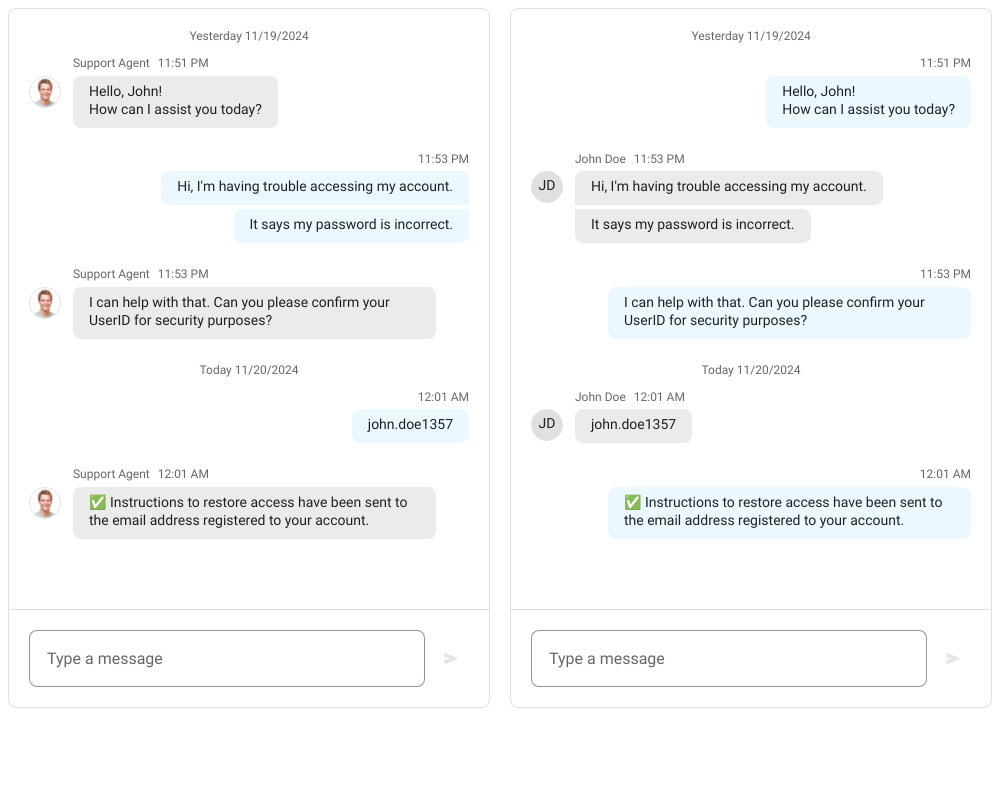
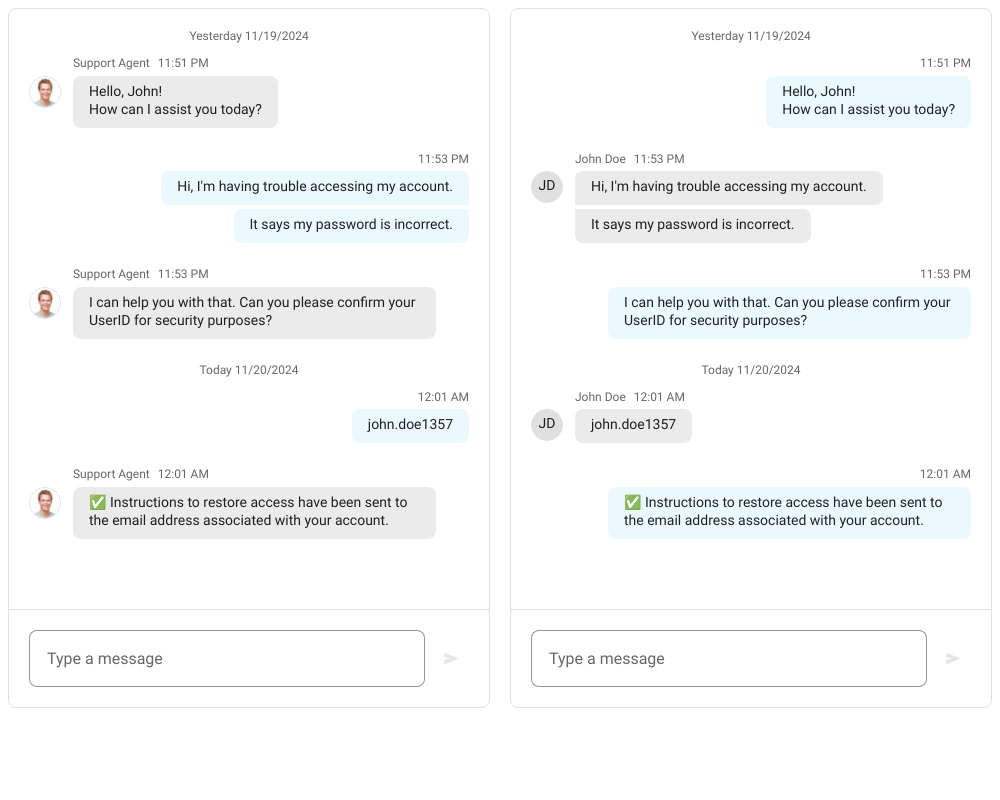
Chat Overview demo: finishing touches (#28444)

diff --git a/apps/demos/Demos/Chat/Overview/Vue/App.vue b/apps/demos/Demos/Chat/Overview/Vue/App.vue
@@ -24,7 +24,7 @@
     }
 
     .dx-chat {
-        height: 810px;
+        height: 710px;
     }
 
     .dx-avatar {
@@ -35,67 +35,17 @@
 <script setup lang="ts">
     import { ref } from 'vue';
     import DxChat from 'devextreme-vue/chat';
-
-    const date = new Date();
-    date.setHours(0, 0, 0, 0);
-
-    function getTimestamp(date, offsetMinutes = 0) {
-        return date.getTime() + offsetMinutes * 60000;
-    }
-
-    const currentUser = ref({
-        id: "c94c0e76-fb49-4b9b-8f07-9f93ed93b4f3",
-        name: "John Doe",
-    });
-
-    const supportAgent = ref({
-        id: "d16d1a4c-5c67-4e20-b7v0e-2991c22747c3",
-        name: "Support Agent",
-        avatarUrl: "../../../../images/petersmith.png",
-    });
+    import { messages, supportAgent, currentUser } from './data.ts';
 
     const userChatTypingUsers = ref([]);
     const supportChatTypingUsers = ref([]);
-
-    const messages = ref([
-        {
-            timestamp: getTimestamp(date, -9),
-            author: supportAgent,
-            text: "Hello, John!\nHow can I assist you today?"
-        },
-        {
-            timestamp: getTimestamp(date, -7),
-            author: currentUser,
-            text: "Hi, I'm having trouble accessing my account."
-        },
-        {
-            timestamp: getTimestamp(date, -7),
-            author: currentUser,
-            text: "It says my password is incorrect."
-        },
-        {
-            timestamp: getTimestamp(date, -7),
-            author: supportAgent,
-            text: "I can help with that. Can you please confirm your UserID for security purposes?"
-        },
-        {
-            timestamp: getTimestamp(date, 1),
-            author: currentUser,
-            text: "john.doe1357"
-        },
-        {
-            timestamp: getTimestamp(date, 1),
-            author: supportAgent,
-            text: "✅ Instructions to restore access have been sent to the email address registered to your account."
-        },
-    ]);
 
     function onMessageEntered(event) {
         messages.value = [...messages.value, event.message];
     }
 
     function userChatTypingStart() {
-        supportChatTypingUsers.value = [currentUser];
+        supportChatTypingUsers.value = [currentUser.value];
     }
     
     function userChatTypingEnd() {
@@ -103,7 +53,7 @@
     }
     
     function supportChatTypingStart() {
-        userChatTypingUsers.value = [supportAgent];
+        userChatTypingUsers.value = [supportAgent.value];
     }
     
     function supportChatTypingEnd() {

diff --git a/apps/demos/Demos/Chat/Overview/jQuery/index.js b/apps/demos/Demos/Chat/Overview/jQuery/index.js
@@ -1,55 +1,4 @@
 $(() => {
-  const getTimestamp = function (date, offsetMinutes = 0) {
-    return date.getTime() + offsetMinutes * 60000;
-  }
-
-  const date = new Date();
-  date.setHours(0, 0, 0, 0);
-
-  const currentUser = {
-    id: "c94c0e76-fb49-4b9b-8f07-9f93ed93b4f3",
-    name: "John Doe",
-  };
-
-  const supportAgent = {
-    id: "d16d1a4c-5c67-4e20-b70e-2991c22747c3",
-    name: "Support Agent",
-    avatarUrl: "../../../../images/petersmith.png",
-  };
-
-  let initialMessages = [
-    {
-      timestamp: getTimestamp(date, -9),
-      author: supportAgent,
-      text: "Hello, John!\nHow can I assist you today?"
-    },
-    {
-      timestamp: getTimestamp(date, -7),
-      author: currentUser,
-      text: "Hi, I'm having trouble accessing my account."
-    },
-    {
-      timestamp: getTimestamp(date, -7),
-      author: currentUser,
-      text: "It says my password is incorrect."
-    },
-    {
-      timestamp: getTimestamp(date, -7),
-      author: supportAgent,
-      text: "I can help with that. Can you please confirm your UserID for security purposes?"
-    },
-    {
-      timestamp: getTimestamp(date, 1),
-      author: currentUser,
-      text: "john.doe1357"
-    },
-    {
-      timestamp: getTimestamp(date, 1),
-      author: supportAgent,
-      text: "✅ Instructions to restore access have been sent to the email address registered to your account."
-    },
-  ];
-
   function onMessageEntered({ message }) {
     userChat.renderMessage(message);
     supportChat.renderMessage(message);

diff --git a/apps/demos/Demos/Chat/Overview/Vue/data.ts b/apps/demos/Demos/Chat/Overview/Vue/data.ts
@@ -1,0 +1,50 @@
+const date = new Date();
+date.setHours(0, 0, 0, 0);
+
+function getTimestamp(date, offsetMinutes = 0) {
+    return date.getTime() + offsetMinutes * 60000;
+}
+
+export const currentUser = {
+    id: "c94c0e76-fb49-4b9b-8f07-9f93ed93b4f3",
+    name: "John Doe",
+};
+
+export const supportAgent = {
+    id: "d16d1a4c-5c67-4e20-b7v0e-2991c22747c3",
+    name: "Support Agent",
+    avatarUrl: "../../../../images/petersmith.png",
+};
+
+export const messages = [
+    {
+        timestamp: getTimestamp(date, -9),
+        author: supportAgent,
+        text: "Hello, John!\nHow can I assist you today?"
+    },
+    {
+        timestamp: getTimestamp(date, -7),
+        author: currentUser,
+        text: "Hi, I'm having trouble accessing my account."
+    },
+    {
+        timestamp: getTimestamp(date, -7),
+        author: currentUser,
+        text: "It says my password is incorrect."
+    },
+    {
+        timestamp: getTimestamp(date, -7),
+        author: supportAgent,
+        text: "I can help you with that. Can you please confirm your UserID for security purposes?"
+    },
+    {
+        timestamp: getTimestamp(date, 1),
+        author: currentUser,
+        text: "john.doe1357"
+    },
+    {
+        timestamp: getTimestamp(date, 1),
+        author: supportAgent,
+        text: "✅ Instructions to restore access have been sent to the email address associated with your account."
+    },
+];

diff --git a/apps/demos/Demos/Chat/Overview/jQuery/data.js b/apps/demos/Demos/Chat/Overview/jQuery/data.js
@@ -1,0 +1,50 @@
+const getTimestamp = function (date, offsetMinutes = 0) {
+  return date.getTime() + offsetMinutes * 60000;
+}
+
+const date = new Date();
+date.setHours(0, 0, 0, 0);
+
+const currentUser = {
+  id: "c94c0e76-fb49-4b9b-8f07-9f93ed93b4f3",
+  name: "John Doe",
+};
+
+const supportAgent = {
+  id: "d16d1a4c-5c67-4e20-b70e-2991c22747c3",
+  name: "Support Agent",
+  avatarUrl: "../../../../images/petersmith.png",
+};
+
+let initialMessages = [
+  {
+    timestamp: getTimestamp(date, -9),
+    author: supportAgent,
+    text: "Hello, John!\nHow can I assist you today?"
+  },
+  {
+    timestamp: getTimestamp(date, -7),
+    author: currentUser,
+    text: "Hi, I'm having trouble accessing my account."
+  },
+  {
+    timestamp: getTimestamp(date, -7),
+    author: currentUser,
+    text: "It says my password is incorrect."
+  },
+  {
+    timestamp: getTimestamp(date, -7),
+    author: supportAgent,
+    text: "I can help you with that. Can you please confirm your UserID for security purposes?"
+  },
+  {
+    timestamp: getTimestamp(date, 1),
+    author: currentUser,
+    text: "john.doe1357"
+  },
+  {
+    timestamp: getTimestamp(date, 1),
+    author: supportAgent,
+    text: "✅ Instructions to restore access have been sent to the email address associated with your account."
+  },
+];

diff --git a/apps/demos/Demos/Chat/Overview/Angular/app/app.service.ts b/apps/demos/Demos/Chat/Overview/Angular/app/app.service.ts
@@ -50,7 +50,7 @@ export class AppService {
       {
         timestamp: this.getTimestamp(this.date, -7),
         author: this.supportAgent,
-        text: 'I can help with that. Can you please confirm your UserID for security purposes?'
+        text: 'I can help you with that. Can you please confirm your UserID for security purposes?'
       },
       {
         timestamp: this.getTimestamp(this.date, 1),
@@ -60,7 +60,7 @@ export class AppService {
       {
         timestamp: this.getTimestamp(this.date, 1),
         author: this.supportAgent,
-        text: '✅ Instructions to restore access have been sent to the email address registered to your account.'
+        text: '✅ Instructions to restore access have been sent to the email address associated with your account.'
       },
     ];
 

diff --git a/apps/demos/Demos/Chat/Overview/ReactJs/data.js b/apps/demos/Demos/Chat/Overview/ReactJs/data.js
@@ -31,7 +31,7 @@ export const initialMessages = [
   {
     timestamp: getTimestamp(date, -7),
     author: supportAgent,
-    text: 'I can help with that. Can you please confirm your UserID for security purposes?',
+    text: 'I can help you with that. Can you please confirm your UserID for security purposes?',
   },
   {
     timestamp: getTimestamp(date, 1),
@@ -41,6 +41,6 @@ export const initialMessages = [
   {
     timestamp: getTimestamp(date, 1),
     author: supportAgent,
-    text: '✅ Instructions to restore access have been sent to the email address registered to your account.',
+    text: '✅ Instructions to restore access have been sent to the email address associated with your account.',
   },
 ];

diff --git a/apps/demos/Demos/Chat/Overview/React/data.ts b/apps/demos/Demos/Chat/Overview/React/data.ts
@@ -37,7 +37,7 @@ export const initialMessages = [
   {
     timestamp: getTimestamp(date, -7),
     author: supportAgent,
-    text: 'I can help with that. Can you please confirm your UserID for security purposes?'
+    text: 'I can help you with that. Can you please confirm your UserID for security purposes?'
   },
   {
     timestamp: getTimestamp(date, 1),
@@ -47,6 +47,6 @@ export const initialMessages = [
   {
     timestamp: getTimestamp(date, 1),
     author: supportAgent,
-    text: '✅ Instructions to restore access have been sent to the email address registered to your account.'
+    text: '✅ Instructions to restore access have been sent to the email address associated with your account.'
   },
 ];

diff --git a/apps/demos/Demos/Chat/Overview/jQuery/index.html b/apps/demos/Demos/Chat/Overview/jQuery/index.html
@@ -8,6 +8,7 @@
     <script src="../../../../node_modules/jquery/dist/jquery.min.js"></script>
     <link rel="stylesheet" type="text/css" href="../../../../node_modules/devextreme-dist/css/dx.light.css" />
     <script src="../../../../node_modules/devextreme-dist/js/dx.all.js"></script>
+    <script src="data.js"></script>
     <link rel="stylesheet" type="text/css" href="styles.css" />
     <script src="index.js"></script>
   </head>

diff --git a/apps/demos/Demos/Chat/Overview/Angular/app/app.component.css b/apps/demos/Demos/Chat/Overview/Angular/app/app.component.css
@@ -4,7 +4,7 @@
 }
 
 ::ng-deep .dx-chat {
-  height: 810px;
+  height: 710px;
 }
 
 ::ng-deep .dx-avatar {

diff --git a/apps/demos/Demos/Chat/Overview/React/styles.css b/apps/demos/Demos/Chat/Overview/React/styles.css
@@ -4,7 +4,7 @@
 }
 
 .dx-chat {
-  height: 810px;
+  height: 710px;
 }
 
 .dx-avatar {

diff --git a/apps/demos/Demos/Chat/Overview/ReactJs/styles.css b/apps/demos/Demos/Chat/Overview/ReactJs/styles.css
@@ -4,7 +4,7 @@
 }
 
 .dx-chat {
-  height: 810px;
+  height: 710px;
 }
 
 .dx-avatar {

diff --git a/apps/demos/Demos/Chat/Overview/jQuery/styles.css b/apps/demos/Demos/Chat/Overview/jQuery/styles.css
@@ -4,7 +4,7 @@
 }
 
 .dx-chat {
-  height: 810px;
+  height: 710px;
 }
 
 .dx-avatar {
